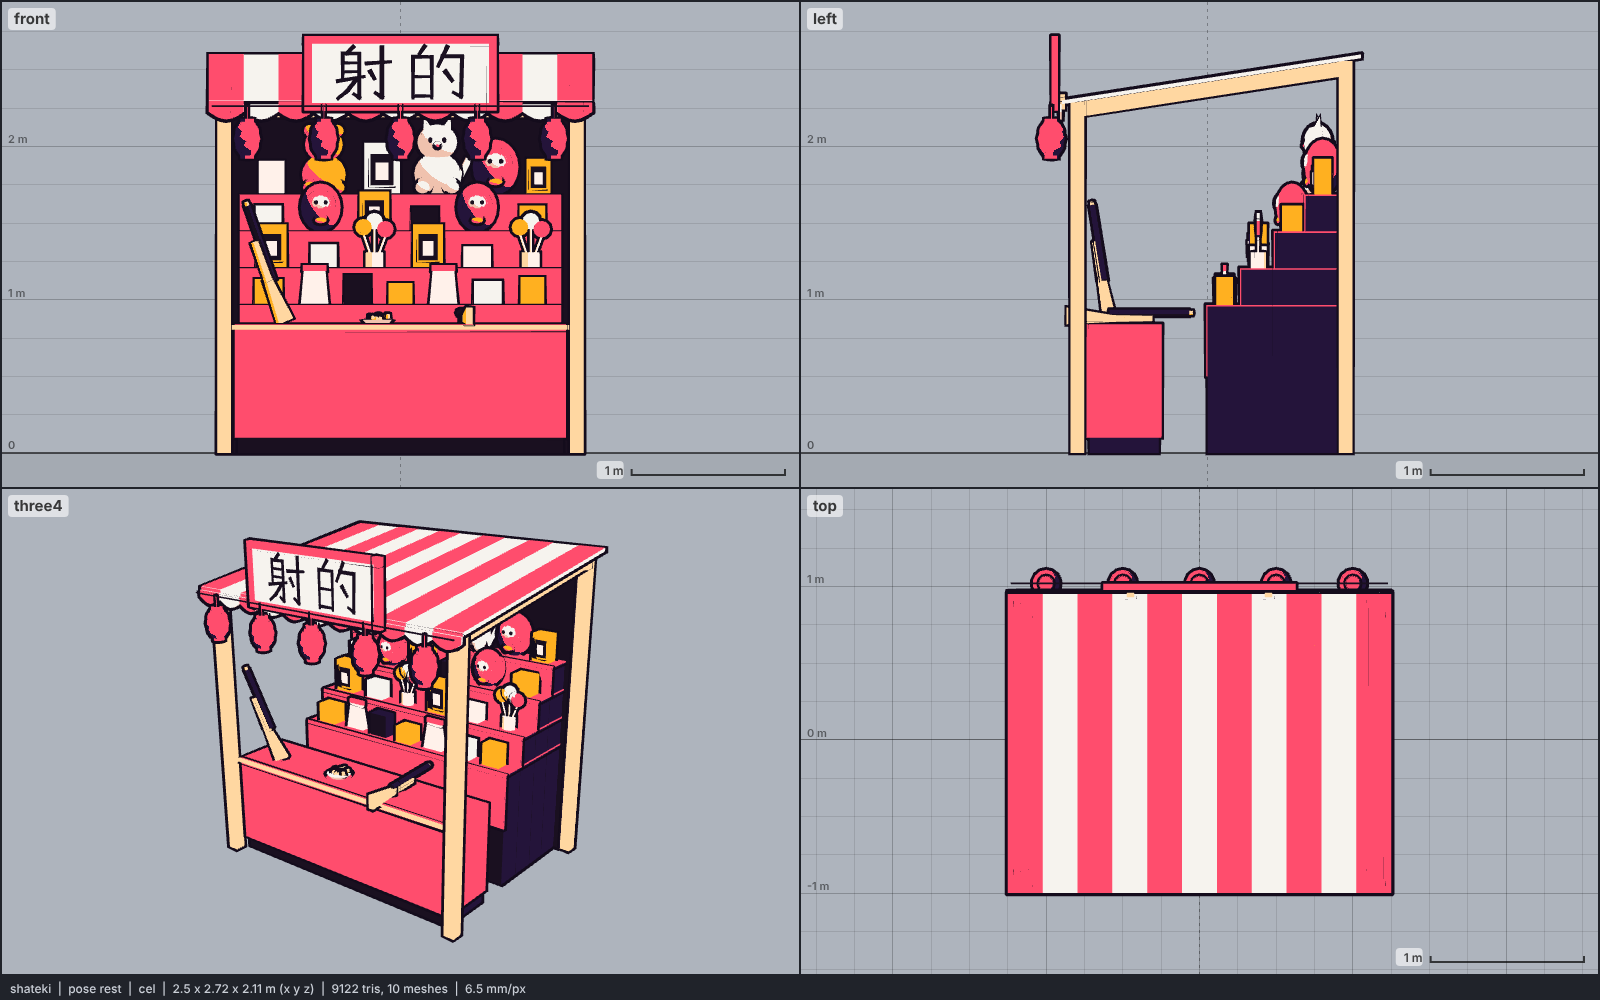
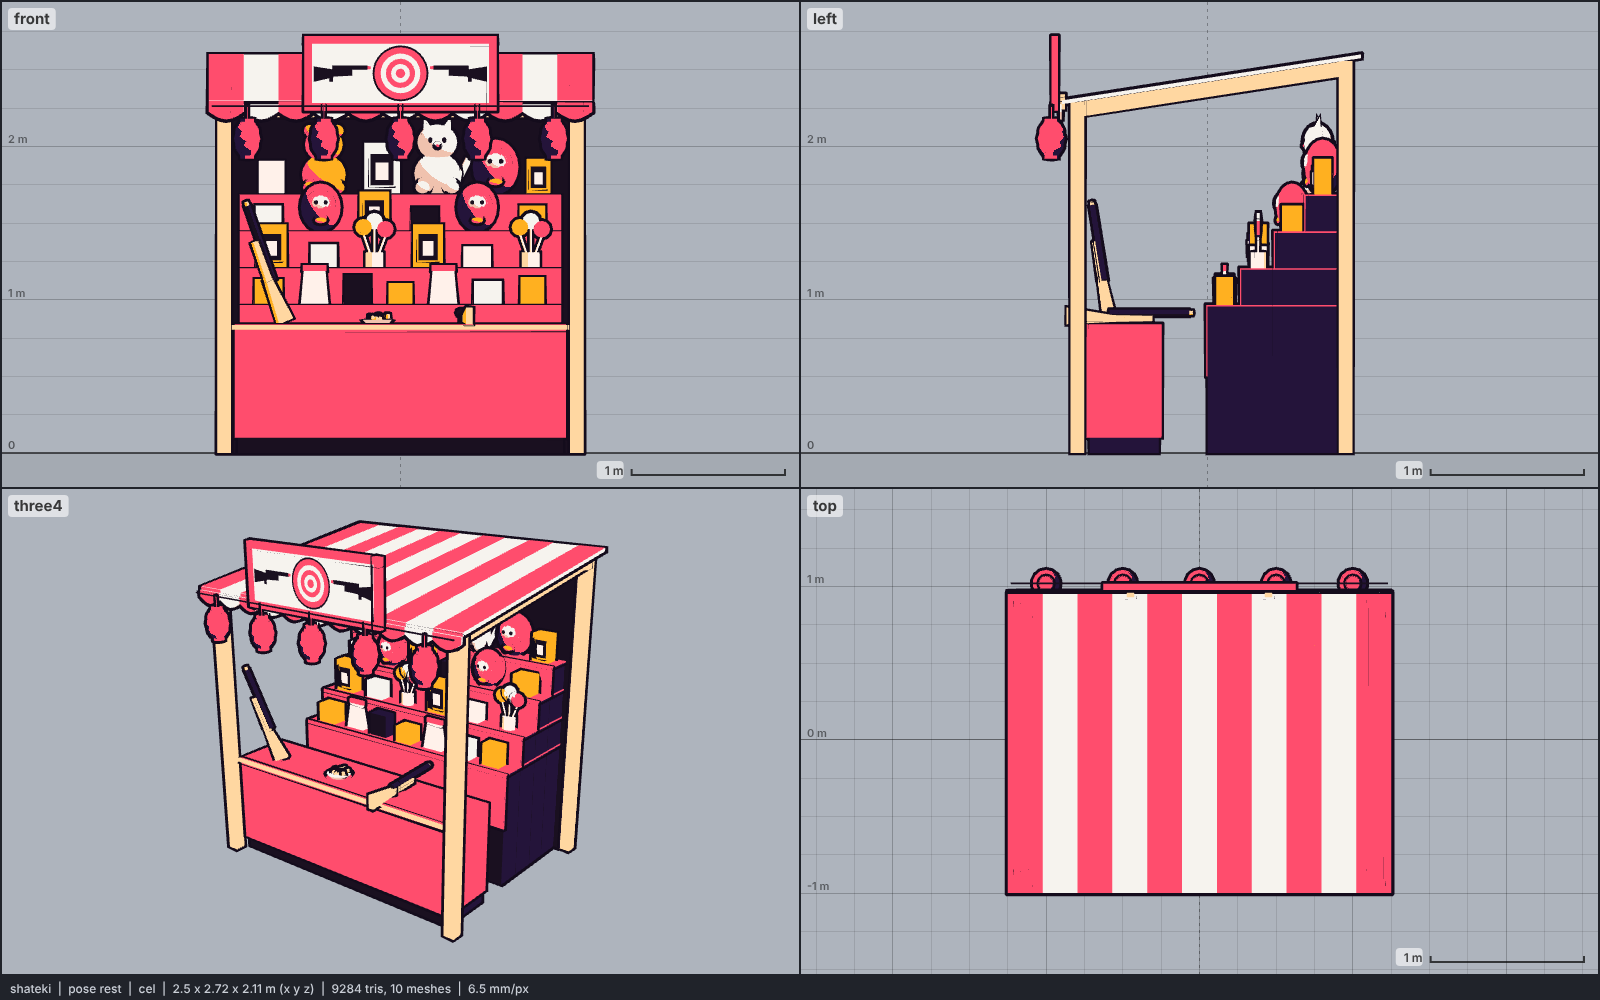
models: shateki, a bullseye and cork guns on the sign instead of lettering
Claude-Session: https://claude.ai/code/session_01RarBCdt4E1fNHHaUKaW5GL

Changed region(s): [[0.1875, 0.031, 0.3125, 0.124], [0.2188, 0.961, 0.3438, 1.0], [0.1562, 0.558, 0.25, 0.62]]

diff --git a/models/shateki.js b/models/shateki.js
@@ -10,8 +10,9 @@
 //            rail: at the hero angle it cut straight across the prizes.
 //   AWNING   one inked white slab sloping forward (back 2.60, front lip 2.30), 11 stripes front-to-back as red decals
 //            3 mm off its faces (no hull, so stripe seams never ink), a short scalloped valance on the front lip.
-//   SIGN     a white board standing on the front lip (2.24-2.71) in a red frame, the two characters painted in brush
-//            strokes: flat ink quads 2 mm proud of the board, each stroke a polyline with a width (no font, no texture).
+//   SIGN     a white board standing on the front lip (2.24-2.71) in a red frame, painted with a bold red-and-white
+//            bullseye (red ring decals, an ink rim) between two cork-gun silhouettes aiming at it (flat ink quads 2 mm
+//            proud of the board, a red cork at each muzzle). No lettering (skill rule 15).
 //   SHELVES  a dark indigo backdrop and four dark step blocks (tops 0.96 / 1.20 / 1.44 / 1.68, treads 0.22 deep) with
 //            red felt laid over each tread and down each riser, so the sides stay dark and the prizes read against them.
 //            Prizes are modelled at catalogue size and grown 1.3x about their feet (grow()) so they carry at 480x300:
@@ -26,7 +27,7 @@
 //            vertex), as the ufo-catcher claw.
 // Proportions (real size, base unit the stall width W = 2.5 m): posts at x +-1.15, z +0.85 / -0.90; awning 2.5 x 2.0;
 //   counter 2.16 x 0.5; steps 2.08 wide; lanterns 0.17 x 0.22 (+ caps), every 0.5 m, centres at 2.05; sign 1.24 x 0.47,
-//   characters 0.36 tall; daruma 0.31-0.36 tall, cat 0.45, figure boxes 0.29; rifles 0.82 long.
+//   bullseye 0.36 across, guns 0.37 long; daruma 0.31-0.36 tall, cat 0.45, figure boxes 0.29; rifles 0.82 long.
 // Options: build(THREE, kit, colors, { height = 2.72, lanterns = true }). height scales the whole stall uniformly (the
 //   sign's top). lanterns: false drops the lanterns and their cord.
 // Clips: sway (2 s loop): each lantern swings about its hook, 0.16 rad side to side and 0.06 rad fore and aft, phases
@@ -173,55 +174,33 @@ export function build(THREE, kit, colors = meta.colors, opts = {}) {
     }
   }
 
-  // ---------- sign board on the front lip, two brush-painted characters ----------
+  // ---------- sign board on the front lip: a bullseye between two cork guns ----------
   const GX = 0.62, GY0 = 2.24, GY1 = 2.712, GZ = AZ1 + 0.03, GT = 0.03;
   box("canvas", -GX, GX, GY0, GY1, GZ, GZ + GT);
   const FR = 0.035; // red frame, proud of the face
   for (const [x0, x1, y0, y1] of [[-GX, GX, GY1 - FR, GY1], [-GX, GX, GY0, GY0 + FR], [-GX, -GX + FR, GY0, GY1], [GX - FR, GX, GY0, GY1]])
     box("stripeSolid", x0 - 0.008, x1 + 0.008, y0 - 0.008, y1 + 0.008, GZ - 0.004, GZ + GT + 0.008);
   for (const s of [-1, 1]) box("wood", s * 0.45 - 0.025, s * 0.45 + 0.025, AY1 - 0.06, GY0 + 0.1, GZ - 0.05, GZ); // struts
-  // strokes in a unit cell (x right, y up), [width, ...points]
-  const GLYPHS = [
-    [ // 射: 身 + 寸
-      [0.085, [0.31, 0.98], [0.2, 0.87]],
-      [0.075, [0.12, 0.86], [0.42, 0.86]],
-      [0.075, [0.12, 0.86], [0.12, 0.38]],
-      [0.075, [0.42, 0.86], [0.42, 0.06], [0.33, 0.12]],
-      [0.06, [0.12, 0.69], [0.42, 0.69]],
-      [0.06, [0.12, 0.53], [0.42, 0.53]],
-      [0.075, [0.03, 0.36], [0.5, 0.44]],
-      [0.08, [0.36, 0.38], [0.2, 0.18], [0.04, 0.05]],
-      [0.075, [0.55, 0.68], [0.98, 0.71]],
-      [0.085, [0.83, 0.97], [0.83, 0.07], [0.72, 0.14]],
-      [0.09, [0.62, 0.53], [0.69, 0.41]],
-    ],
-    [ // 的: 白 + 勺
-      [0.085, [0.27, 0.99], [0.18, 0.86]],
-      [0.075, [0.06, 0.8], [0.06, 0.06]],
-      [0.075, [0.06, 0.8], [0.4, 0.8]],
-      [0.075, [0.4, 0.8], [0.4, 0.06]],
-      [0.06, [0.06, 0.44], [0.4, 0.44]],
-      [0.07, [0.06, 0.09], [0.4, 0.09]],
-      [0.085, [0.68, 0.98], [0.52, 0.64]],
-      [0.075, [0.59, 0.81], [0.95, 0.81], [0.93, 0.08], [0.8, 0.15]],
-      [0.095, [0.65, 0.53], [0.76, 0.38]],
-    ],
+  // a bold bullseye in the middle (red rings as flat decals on the white board, an ink rim), and a cork-gun
+  // silhouette on each side aiming at it (flat ink quads, a red cork at the muzzle). No lettering.
+  const CZ = GZ + GT + 0.002, CYS = (GY0 + GY1) / 2, BR = 0.17;
+  const flat = (key, geo, x, y) => add(key, geo, [x, y, CZ]);
+  flat("ink", new THREE.RingGeometry(BR, BR + 0.012, 32), 0, CYS);
+  flat("stripe", new THREE.RingGeometry(BR * 0.76, BR, 32), 0, CYS);
+  flat("stripe", new THREE.RingGeometry(BR * 0.36, BR * 0.56, 24), 0, CYS);
+  flat("stripe", new THREE.CircleGeometry(BR * 0.18, 16), 0, CYS);
+  // gun in local metres: u from the butt toward the muzzle, v up
+  const GUN = [
+    ["ink", [[0, -0.05], [0.13, -0.02], [0.13, 0.03], [0, 0.05]]], // butt stock, tall at the heel
+    ["ink", [[0.13, -0.016], [0.25, -0.01], [0.25, 0.03], [0.13, 0.03]]], // forend
+    ["ink", [[0.12, 0.028], [0.35, 0.028], [0.35, 0.056], [0.12, 0.056]]], // barrel
+    ["ink", [[0.1, -0.012], [0.125, -0.012], [0.125, -0.05], [0.1, -0.05]]], // trigger guard
+    ["stripe", [[0.35, 0.031], [0.372, 0.033], [0.372, 0.051], [0.35, 0.053]]], // the cork
   ];
-  const CH = 0.36, CZ = GZ + GT + 0.002;
-  GLYPHS.forEach((strokes, gi) => {
-    const ox = (gi === 0 ? -0.06 : 0.06) + (gi - 1) * CH, oy = (GY0 + GY1) / 2 - CH / 2;
-    for (const [w0, ...pts] of strokes) {
-      const P = pts.map(([u, v]) => [ox + u * CH, oy + v * CH]), w = w0 * CH;
-      for (let k = 0; k < P.length - 1; k++) {
-        const [a, b] = [P[k], P[k + 1]], d = norm([b[0] - a[0], b[1] - a[1], 0]), h = w / 2;
-        const t = [d[0] * h * 0.9, d[1] * h * 0.9], nx = -d[1] * h, ny = d[0] * h;
-        const A = [a[0] - t[0], a[1] - t[1]], B = [b[0] + t[0], b[1] + t[1]];
-        // a brush taper: a little narrower at the stroke's end
-        const e = k === P.length - 2 ? 0.75 : 1;
-        quad("ink", [A[0] + nx, A[1] + ny, CZ], [A[0] - nx, A[1] - ny, CZ], [B[0] - nx * e, B[1] - ny * e, CZ], [B[0] + nx * e, B[1] + ny * e, CZ], [A[0], A[1], CZ - 1]);
-      }
-    }
-  });
+  for (const sx of [-1, 1]) {
+    const W = ([u, v]) => [sx * (0.565 - u), CYS - 0.005 + v, CZ];
+    for (const [key, q] of GUN) quad(key, W(q[0]), W(q[1]), W(q[2]), W(q[3]), [0, CYS, CZ - 1]);
+  }
 
   // ---------- backdrop and stepped red-felt shelves ----------
   const BZ = -0.86, SX = 1.04;
